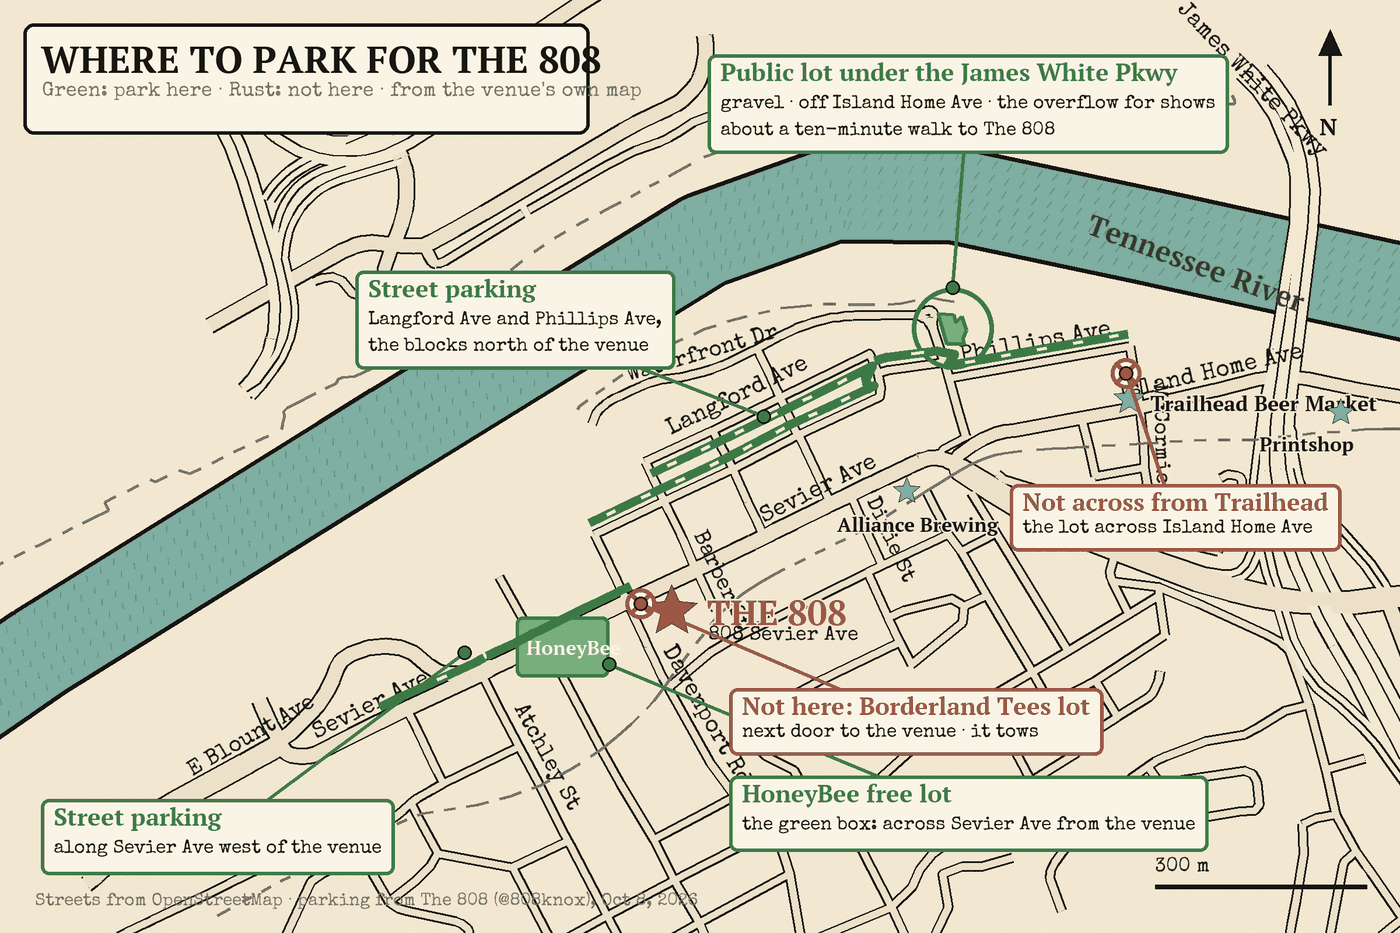
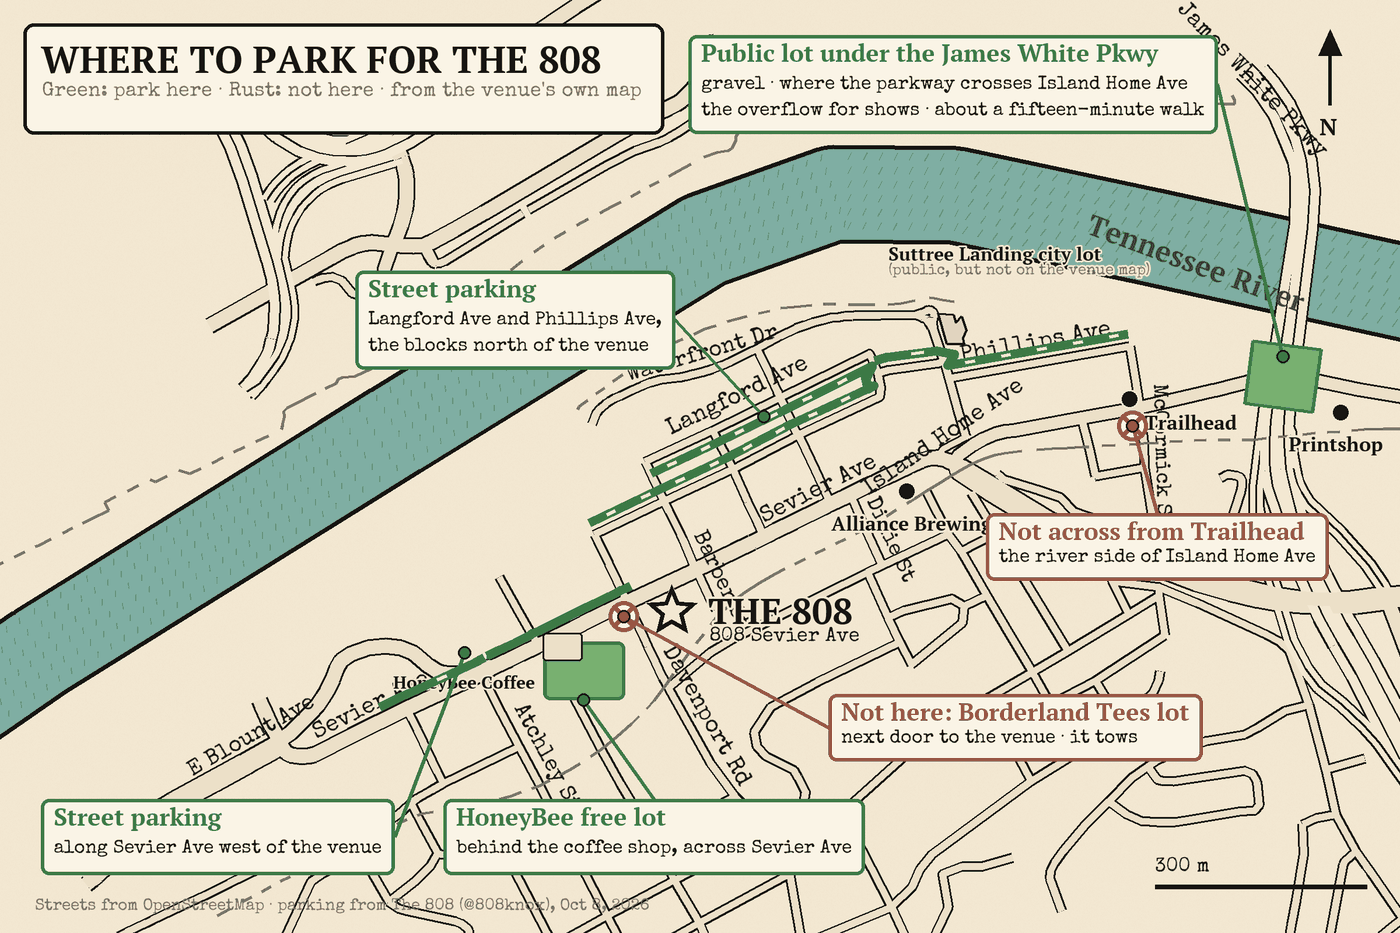
808 parking map, second revision from Andy's notes
Title plate fits; the lot by the river is labeled as Suttree Landing's city lot
(ink, not green); the underpass lot is drawn where the parkway crosses Island
Home past Trailhead; the HoneyBee lot sits behind the coffee shop; 'not across
from Trailhead' moves to the river side; the venue star is ink, not rust; no
leader crosses another. Story text follows.

diff --git a/scripts/parking-map-808.py b/scripts/parking-map-808.py
@@ -2,204 +2,196 @@
 # OpenStreetMap extract (api.openstreetmap.org/api/0.6/map?bbox=-83.9135,35.9535,-83.8935,35.9640)
 # saved as map.osm beside it, with the venue's own green/rust parking annotations. Output:
 # park_map_full.png (2400x1600) -> public/assets/diagrams/the-808-parking.png at 1400 wide.
-import math, random, xml.etree.ElementTree as ET
-from PIL import Image, ImageDraw, ImageFont, ImageFilter
+import math, xml.etree.ElementTree as ET
+from PIL import Image, ImageDraw, ImageFont
 FONTS='/Users/andyroberts/Projects/sokno_ear_web/scripts/fonts/'
 SE=lambda s: ImageFont.truetype(FONTS+'SpecialElite-Regular.ttf', s)
 PT=lambda s: ImageFont.truetype(FONTS+'PTSerif-Bold.ttf', s)
-INK=(23,21,18); CREAM=(243,232,210); TEAL=(127,174,163); RUST=(169,74,52); GREEN=(61,122,70); GREEN_FILL=(120,176,112); FADED=(120,112,100)
+INK=(23,21,18); CREAM=(243,232,210); PLATE=(250,244,230); TEAL=(127,174,163); RUST=(169,74,52)
+GREEN=(61,122,70); GREEN_FILL=(120,176,112); FADED=(120,112,100); ROAD=(236,224,200)
 W,H=2400,1600
 LON0,LON1=-83.9178,-83.8958; LAT1=35.9656
 k=W/(LON1-LON0); cosl=math.cos(math.radians(35.959))
-def P(lat,lon): return ((lon-LON0)*k, (LAT1-lat)*k*(1/cosl)*cosl*1.0/cosl*cosl) 
-# simpler equirect with aspect correction:
 def P(lat,lon): return ((lon-LON0)*k, (LAT1-lat)*k/cosl)
+px_per_m = k/(111320*cosl)
 r=ET.parse('map.osm').getroot()
 nodes={n.get('id'):(float(n.get('lat')),float(n.get('lon'))) for n in r.findall('node')}
 def tags(e): return {t.get('k'):t.get('v') for t in e.findall('tag')}
 ways=[(tags(w),[nodes[nd.get('ref')] for nd in w.findall('nd') if nd.get('ref') in nodes], w.get('id')) for w in r.findall('way')]
+poly=lambda pts:[P(a,b) for a,b in pts]
 
-img=Image.new('RGB',(W,H),CREAM); d=ImageDraw.Draw(img)
-# paper grain
-noise=Image.effect_noise((W,H),18).convert('L')
-grain=Image.new('RGB',(W,H),(232,220,196)); img=Image.composite(img,grain,noise.point(lambda v: 255 if v>118 else 200)); d=ImageDraw.Draw(img)
+img=Image.new('RGB',(W,H),CREAM)
+noise=Image.effect_noise((W,H),18).convert('L'); grain=Image.new('RGB',(W,H),(232,220,196))
+img=Image.composite(img,grain,noise.point(lambda v: 255 if v>118 else 200)); d=ImageDraw.Draw(img)
 
-def poly(pts): return [P(a,b) for a,b in pts]
-# river: thick band + hatched edges
+# ---------- base map ----------
 for t,pts,_ in ways:
     if t.get('waterway')=='river' and t.get('name')=='Tennessee River':
-        pp=poly(pts)
-        d.line(pp,fill=INK,width=170,joint='curve'); d.line(pp,fill=TEAL,width=156,joint='curve')
-        # hatch lines inside the band for engraving feel
+        pp=poly(pts); d.line(pp,fill=INK,width=170,joint='curve'); d.line(pp,fill=TEAL,width=156,joint='curve')
         for i in range(len(pp)-1):
             (x1,y1),(x2,y2)=pp[i],pp[i+1]
             if not(-300<x1<W+300 and -300<y1<H+300): continue
             L=math.hypot(x2-x1,y2-y1); n=int(L/26)
             for j in range(n):
-                tt=j/max(n,1); x=x1+(x2-x1)*tt; y=y1+(y2-y1)*tt
-                nx,ny=-(y2-y1)/L,(x2-x1)/L
-                for off in (-60,-36,-12,12,36,60):
-                    d.line([(x+nx*off,y+ny*off),(x+nx*(off+12)+6,y+ny*(off+12))],fill=(96,140,130),width=2)
-# roads
+                tt=j/max(n,1); x=x1+(x2-x1)*tt; y=y1+(y2-y1)*tt; nx,ny=-(y2-y1)/L,(x2-x1)/L
+                for off in (-60,-36,-12,12,36,60): d.line([(x+nx*off,y+ny*off),(x+nx*(off+12)+6,y+ny*(off+12))],fill=(96,140,130),width=2)
 W_BY={'motorway':34,'motorway_link':22,'primary':26,'secondary':24,'tertiary':20,'residential':12,'unclassified':10}
 for t,pts,_ in ways:
-    h=t.get('highway')
-    if h in W_BY:
-        pp=poly(pts); w=W_BY[h]
-        d.line(pp,fill=INK,width=w+6,joint='curve')
+    if t.get('highway') in W_BY: d.line(poly(pts),fill=INK,width=W_BY[t['highway']]+6,joint='curve')
 for t,pts,_ in ways:
     h=t.get('highway')
     if h in W_BY:
-        pp=poly(pts); w=W_BY[h]
-        d.line(pp,fill=CREAM if h in('motorway','motorway_link') else (236,224,200),width=w,joint='curve')
-        if h in ('motorway','motorway_link'):
-            d.line(pp,fill=INK,width=3,joint='curve')
+        pp=poly(pts); d.line(pp,fill=CREAM if h.startswith('motorway') else ROAD,width=W_BY[h],joint='curve')
+        if h.startswith('motorway'): d.line(pp,fill=INK,width=3,joint='curve')
 for t,pts,_ in ways:
     if t.get('name') in ('SoKno Rail Trail','Suttree Landing River Walk Greenway','Neyland Greenway'):
         pp=poly(pts)
         for i in range(len(pp)-1):
             (x1,y1),(x2,y2)=pp[i],pp[i+1]; L=math.hypot(x2-x1,y2-y1); n=max(int(L/18),1)
             for j in range(0,n,2):
-                a=j/n; b=min((j+1)/n,1)
-                d.line([(x1+(x2-x1)*a,y1+(y2-y1)*a),(x1+(x2-x1)*b,y1+(y2-y1)*b)],fill=FADED,width=5)
+                a=j/n; b=min((j+1)/n,1); d.line([(x1+(x2-x1)*a,y1+(y2-y1)*a),(x1+(x2-x1)*b,y1+(y2-y1)*b)],fill=FADED,width=5)
 
-def text_along(text, p1, p2, font, fill=INK, offset=0):
-    (x1,y1),(x2,y2)=p1,p2
-    ang=math.degrees(math.atan2(-(y2-y1),x2-x1))
+def text_along(text,p1,p2,font,fill=INK,offset=0):
+    (x1,y1),(x2,y2)=p1,p2; ang=math.degrees(math.atan2(-(y2-y1),x2-x1))
     if ang>90: ang-=180
     if ang<-90: ang+=180
     bb=d.textbbox((0,0),text,font=font); tw,th=bb[2]-bb[0],bb[3]-bb[1]
     tmp=Image.new('RGBA',(tw+40,th+40),(0,0,0,0)); ImageDraw.Draw(tmp).text((20-bb[0],20-bb[1]),text,font=font,fill=fill)
-    rot=tmp.rotate(ang,expand=True,resample=Image.BICUBIC)
-    cx,cy=(x1+x2)/2,(y1+y2)/2
+    rot=tmp.rotate(ang,expand=True,resample=Image.BICUBIC); cx,cy=(x1+x2)/2,(y1+y2)/2
     nx,ny=-(y2-y1),(x2-x1); L=math.hypot(nx,ny) or 1; nx,ny=nx/L,ny/L
     if ny>0: nx,ny=-nx,-ny
-    cx+=nx*offset; cy+=ny*offset
-    img.paste(rot,(int(cx-rot.width/2),int(cy-rot.height/2)),rot)
-
-def seg_of(name, lat, lon, wid=None):
+    img.paste(rot,(int(cx+nx*offset-rot.width/2),int(cy+ny*offset-rot.height/2)),rot)
+def seg_of(name,lat,lon):
     best=None
     for t,pts,i in ways:
         if t.get('name')!=name or 'highway' not in t: continue
-        if wid and i!=wid: continue
         for a in range(len(pts)-1):
-            m=((pts[a][0]+pts[a+1][0])/2,(pts[a][1]+pts[a+1][1])/2)
-            dd=(m[0]-lat)**2+((m[1]-lon)*cosl)**2
+            m=((pts[a][0]+pts[a+1][0])/2,(pts[a][1]+pts[a+1][1])/2); dd=(m[0]-lat)**2+((m[1]-lon)*cosl)**2
             if best is None or dd<best[0]: best=(dd,P(*pts[a]),P(*pts[a+1]))
     return best[1],best[2]
-labels=[('Sevier Ave',35.9565,-83.9120,'Sevier Avenue Southeast',40),('Sevier Ave',35.9590,-83.9048,'Sevier Avenue Southeast',40),
- ('Island Home Ave',35.9605,-83.8985,'Island Home Avenue',40),('James White Pkwy',35.9627,-83.9035,'James White Parkway',40),
+for text,lat,lon,name,sz in [('Sevier Ave',35.9565,-83.9120,'Sevier Avenue Southeast',40),('Sevier Ave',35.9590,-83.9048,'Sevier Avenue Southeast',40),
+ ('Island Home Ave',35.96035,-83.9032,'Island Home Avenue',40),('James White Pkwy',35.9627,-83.9035,'James White Parkway',40),
  ('Langford Ave',35.9603,-83.9058,'Langford Avenue Southeast',40),('Phillips Ave',35.9611,-83.9020,'Phillips Avenue Southeast',40),
  ('Davenport Rd',35.9565,-83.9065,'Davenport Road',40),('Barber St',35.9580,-83.9070,'Barber Street',38),('E Blount Ave',35.9575,-83.9120,'East Blount Avenue',38),
- ('Waterfront Dr',35.9612,-83.9068,'Waterfront Drive',38),('Atchley St',35.9560,-83.9095,'Atchley Street',38),('McCormick St',35.9598,-83.9028,'McCormick Street',36),('Dixie St',35.9585,-83.9043,'Dixie Street Southeast',36)]
-for text,lat,lon,name,sz in labels:
-    try:
-        a,b=seg_of(name,lat,lon)
-    except Exception as e:
-        print('no seg',name); continue
-    # extend the segment direction using neighbours for a stable angle
-    text_along(text,a,b,SE(sz),fill=INK,offset=0 if name in('James White Parkway',) else 34)
-# river label
+ ('Waterfront Dr',35.9612,-83.9068,'Waterfront Drive',38),('Atchley St',35.9560,-83.9095,'Atchley Street',38),('McCormick St',35.9598,-83.9028,'McCormick Street',36),('Dixie St',35.9585,-83.9043,'Dixie Street Southeast',36)]:
+    a,b=seg_of(name,lat,lon); text_along(text,a,b,SE(sz),offset=0 if name=='James White Parkway' else 34)
 text_along('Tennessee River',P(35.9627,-83.9005),P(35.9618,-83.8975),PT(50),fill=(40,70,64))
 
-# ---- annotations ----
-def star(c,rad,fill):
-    x,y=c; pts=[]
-    for i in range(10):
-        a=-math.pi/2+i*math.pi/5; rr=rad if i%2==0 else rad*0.45
-        pts.append((x+rr*math.cos(a),y+rr*math.sin(a)))
-    d.polygon(pts,fill=fill,outline=INK)
-def green_poly(pts, label=None, lpos=None, font=PT(40)):
-    pp=poly(pts); d.polygon(pp,fill=GREEN_FILL,outline=INK)
-    # hatch
-    xs=[p[0] for p in pp]; ys=[p[1] for p in pp]
-    d.polygon(pp,fill=GREEN_FILL,outline=GREEN)
-    d.line(pp+[pp[0]],fill=GREEN,width=6)
-def green_stroke(name, lat_a, lon_a, lat_b, lon_b, side=1):
-    # thick green dashed stroke along the named way between two points, projected onto the line
-    def proj(pts, target):
+# ---------- helpers ----------
+def star(c,rad,fill,outline=INK):
+    x,y=c; pts=[(x+(rad if i%2==0 else rad*0.45)*math.cos(-math.pi/2+i*math.pi/5), y+(rad if i%2==0 else rad*0.45)*math.sin(-math.pi/2+i*math.pi/5)) for i in range(10)]
+    d.polygon(pts,fill=fill,outline=outline)
+def box(tx,ty,lines,color,font_title=PT(42),font_body=SE(32)):
+    bb=[d.textbbox((0,0),l,font=(font_title if i==0 else font_body)) for i,l in enumerate(lines)]
+    tw=max(b[2]-b[0] for b in bb)+44; th=sum(b[3]-b[1]+14 for b in bb)+30
+    d.rounded_rectangle([tx,ty,tx+tw,ty+th],radius=14,fill=PLATE,outline=color,width=6)
+    cy=ty+14
+    for i,l in enumerate(lines):
+        f=font_title if i==0 else font_body; b=d.textbbox((0,0),l,font=f)
+        d.text((tx+22-b[0],cy-b[1]),l,font=f,fill=(color if i==0 else INK)); cy+=b[3]-b[1]+14
+    return (tx,ty,tx+tw,ty+th)
+def leader(p,rect,color):
+    # line from the point to the nearest edge-midpoint of the box, drawn under the box
+    x,y=p; x0,y0,x1,y1=rect
+    cands=[((x0+x1)/2,y0),((x0+x1)/2,y1),(x0,(y0+y1)/2),(x1,(y0+y1)/2)]
+    q=min(cands,key=lambda c:(c[0]-x)**2+(c[1]-y)**2)
+    d.line([p,q],fill=color,width=6); d.ellipse([x-11,y-11,x+11,y+11],fill=color,outline=INK,width=3)
+def callout(p,lines,tx,ty,color):
+    rect=box(tx,ty,lines,color); leader(p,rect,color); box(tx,ty,lines,color)  # box twice so it sits over the leader
+def nomark(p):
+    x,y=p; d.ellipse([x-26,y-26,x+26,y+26],fill=PLATE,outline=RUST,width=7)
+    d.line([(x-15,y-15),(x+15,y+15)],fill=RUST,width=8); d.line([(x-15,y+15),(x+15,y-15)],fill=RUST,width=8)
+def green_stroke(name,lat_a,lon_a,lat_b,lon_b,side=1):
+    def proj(pts,target):
         best=None
         for q in range(len(pts)-1):
-            (ax,ay),(bx,by)=P(*pts[q]),P(*pts[q+1]); tx,ty=P(*target)
-            dx,dy=bx-ax,by-ay; L2=dx*dx+dy*dy or 1
-            t=max(0,min(1,((tx-ax)*dx+(ty-ay)*dy)/L2)); px,py=ax+dx*t,ay+dy*t
-            dd=(px-tx)**2+(py-ty)**2
+            (ax,ay),(bx,by)=P(*pts[q]),P(*pts[q+1]); tx,ty=P(*target); dx,dy=bx-ax,by-ay; L2=dx*dx+dy*dy or 1
+            t=max(0,min(1,((tx-ax)*dx+(ty-ay)*dy)/L2)); px,py=ax+dx*t,ay+dy*t; dd=(px-tx)**2+(py-ty)**2
             if best is None or dd<best[0]: best=(dd,q,t,(px,py))
         return best
     cands=[]
     for t,pts,i in ways:
         if t.get('name')!=name or 'highway' not in t or len(pts)<2: continue
-        a=proj(pts,(lat_a,lon_a)); b=proj(pts,(lat_b,lon_b))
-        cands.append((a[0]+b[0],pts,a,b))
-    if not cands: return None
-    _,pts,a,b=min(cands,key=lambda c:c[0])
-    (qa,ta,pa),(qb,tb,pb)=a[1:],b[1:]
+        a=proj(pts,(lat_a,lon_a)); b=proj(pts,(lat_b,lon_b)); cands.append((a[0]+b[0],pts,a,b))
+    _,pts,a,b=min(cands,key=lambda c:c[0]); (qa,ta,pa),(qb,tb,pb)=a[1:],b[1:]
     if (qa,ta)>(qb,tb): (qa,ta,pa),(qb,tb,pb)=(qb,tb,pb),(qa,ta,pa)
-    pp=[pa]+[P(*pts[q]) for q in range(qa+1,qb+1)]+[pb]
-    out=[]
+    pp=[pa]+[P(*pts[q]) for q in range(qa+1,qb+1)]+[pb]; out=[]
     for q in range(len(pp)):
-        (x1,y1)=pp[max(q-1,0)]; (x2,y2)=pp[min(q+1,len(pp)-1)]
-        nx,ny=-(y2-y1),(x2-x1); L=math.hypot(nx,ny) or 1
+        (x1,y1)=pp[max(q-1,0)]; (x2,y2)=pp[min(q+1,len(pp)-1)]; nx,ny=-(y2-y1),(x2-x1); L=math.hypot(nx,ny) or 1
         out.append((pp[q][0]+side*22*nx/L,pp[q][1]+side*22*ny/L))
     d.line(out,fill=GREEN,width=16,joint='curve')
     for q in range(len(out)-1):
         (x1,y1),(x2,y2)=out[q],out[q+1]; L=math.hypot(x2-x1,y2-y1); n=max(int(L/30),1)
         for j in range(1,n,2):
-            aa=j/n; bb=min((j+0.5)/n,1)
-            d.line([(x1+(x2-x1)*aa,y1+(y2-y1)*aa),(x1+(x2-x1)*bb,y1+(y2-y1)*bb)],fill=CREAM,width=6)
+            aa=j/n; bb=min((j+0.5)/n,1); d.line([(x1+(x2-x1)*aa,y1+(y2-y1)*aa),(x1+(x2-x1)*bb,y1+(y2-y1)*bb)],fill=CREAM,width=6)
     return out
-def callout(x,y,lines,anchor,font_title=PT(42),font_body=SE(32),color=GREEN,tx=None,ty=None):
-    # box with pointer
-    bb=[d.textbbox((0,0),l,font=(font_title if i==0 else font_body)) for i,l in enumerate(lines)]
-    tw=max(b[2]-b[0] for b in bb)+44; th=sum(b[3]-b[1]+14 for b in bb)+30
-    bx,by=(tx if tx is not None else x+anchor[0]),(ty if ty is not None else y+anchor[1])
-    d.line([(x,y),(bx+tw/2,by+th/2)],fill=color,width=6)
-    d.rounded_rectangle([bx,by,bx+tw,by+th],radius=14,fill=(250,244,230),outline=color,width=6)
-    cy=by+14
-    for i,l in enumerate(lines):
-        f=font_title if i==0 else font_body; b=d.textbbox((0,0),l,font=f)
-        d.text((bx+22-b[0],cy-b[1]),l,font=f,fill=(color if i==0 else INK)); cy+=b[3]-b[1]+14
-    d.ellipse([x-12,y-12,x+12,y+12],fill=color,outline=INK,width=3)
 
-# green: underpass lot (OSM outline)
+# ---------- where the parkway crosses Island Home Ave ----------
+def segs(name,kinds):
+    out=[]
+    for t,pts,_ in ways:
+        if t.get('name')==name and t.get('highway') in kinds:
+            pp=poly(pts); out+= [(pp[i],pp[i+1]) for i in range(len(pp)-1)]
+    return out
+def intersect(s1,s2):
+    (x1,y1),(x2,y2)=s1; (x3,y3),(x4,y4)=s2; den=(x1-x2)*(y3-y4)-(y1-y2)*(x3-x4)
+    if abs(den)<1e-9: return None
+    t=((x1-x3)*(y3-y4)-(y1-y3)*(x3-x4))/den; u=-((x1-x2)*(y1-y3)-(y1-y2)*(x1-x3))/den
+    return (x1+t*(x2-x1),y1+t*(y2-y1),s1) if 0<=t<=1 and 0<=u<=1 else None
+hits=[]
+for a in segs('James White Parkway',('motorway',)):
+    for b in segs('Island Home Avenue',('tertiary','residential','secondary')):
+        h=intersect(a,b)
+        if h: hits.append(h)
+cx=sum(h[0] for h in hits)/len(hits); cy=sum(h[1] for h in hits)/len(hits)
+(ax,ay),(bx,by)=hits[0][2]; ang=math.atan2(by-ay,bx-ax); ux,uy=math.cos(ang),math.sin(ang); vx,vy=-uy,ux
+Lh,Wh=px_per_m*45,px_per_m*48   # a lot ~90 m along the bridge, ~95 m wide, straddling the road
+lot=[(cx+ux*Lh+vx*Wh,cy+uy*Lh+vy*Wh),(cx-ux*Lh+vx*Wh,cy-uy*Lh+vy*Wh),(cx-ux*Lh-vx*Wh,cy-uy*Lh-vy*Wh),(cx+ux*Lh-vx*Wh,cy+uy*Lh-vy*Wh)]
+d.polygon(lot,fill=GREEN_FILL,outline=GREEN); d.line(lot+[lot[0]],fill=GREEN,width=6)
+print('underpass lot at px',round(cx),round(cy),'hits',len(hits))
+
+# ---------- the other lots ----------
+# Suttree Landing's city lot (OSM outline): public, but not on the venue's map, so ink not green
 for t,pts,i in ways:
-    if i=='686757700': green_poly(pts); lot_c=P(35.96142,-83.90283)
-d.ellipse([lot_c[0]-70,lot_c[1]-70,lot_c[0]+70,lot_c[1]+70],outline=GREEN,width=8)
-callout(lot_c[0],lot_c[1]-70,['Public lot under the James White Pkwy','gravel · off Island Home Ave · the overflow for shows','about a ten-minute walk to The 808'],(0,0),tx=lot_c[0]-420,ty=lot_c[1]-470)
-# green: HoneyBee free lot — around the Honeybee building
-hb=P(35.95737,-83.90896)
-d.rounded_rectangle([hb[0]-80,hb[1]-52,hb[0]+80,hb[1]+52],radius=12,fill=GREEN_FILL,outline=GREEN,width=6)
-d.text((hb[0]-62,hb[1]-22),'HoneyBee',font=PT(34),fill=(250,244,230))
-callout(hb[0]+80,hb[1]+30,['HoneyBee free lot','the green box: across Sevier Ave from the venue'],(0,0),tx=1250,ty=1330)
-# green: street parking strokes
-s1=green_stroke('Sevier Avenue Southeast',35.9571,-83.9101,35.9580,-83.9078,side=-1); s1b=green_stroke('Sevier Avenue Southeast',35.95655,-83.9118,35.95711,-83.91007,side=-1)
-s2=green_stroke('Langford Avenue Southeast',35.9597,-83.90765,35.96086,-83.904,side=1)
-s3=green_stroke('Phillips Avenue Southeast',35.9588,-83.90845,35.96086,-83.904,side=-1)
-s4=green_stroke('Phillips Avenue Southeast',35.96086,-83.904,35.96119,-83.90004,side=-1)
-lp=P(35.9603,-83.9058); callout(lp[0],lp[1],['Street parking','Langford Ave and Phillips Ave,','the blocks north of the venue'],(0,0),tx=lp[0]-700,ty=lp[1]-250)
-sp=P(35.95700,-83.9105); callout(sp[0],sp[1]-40,['Street parking','along Sevier Ave west of the venue'],(0,0),tx=70,ty=1370)
-# venue
-v=P(35.95782,-83.90724); star(v,46,RUST)
-d.text((v[0]+60,v[1]-40),'THE 808',font=PT(60),fill=RUST,stroke_width=3,stroke_fill=CREAM)
-d.text((v[0]+62,v[1]+24),'808 Sevier Ave',font=SE(34),fill=INK)
-# rust: Borderland lot next door (802 Sevier), and across from Trailhead
-def nomark(x,y,lines,anchor):
-    d.ellipse([x-26,y-26,x+26,y+26],fill=(250,244,230),outline=RUST,width=7)
-    d.line([(x-15,y-15),(x+15,y+15)],fill=RUST,width=8); d.line([(x-15,y+15),(x+15,y-15)],fill=RUST,width=8)
-    callout(x,y,lines,anchor,color=RUST,tx=(x-200 if 'Trailhead' in lines[0] else 1250),ty=(y+190 if 'Trailhead' in lines[0] else 1180))
-b=P(35.95792,-83.90773); nomark(b[0],b[1],['Not here: Borderland Tees lot','next door to the venue · it tows'],(0,0))
-th=P(35.96052,-83.90005); star(th,28,TEAL); d.text((th[0]+36,th[1]-18),'Trailhead Beer Market',font=PT(36),fill=INK,stroke_width=3,stroke_fill=CREAM)
-nm=P(35.96085,-83.90010); nomark(nm[0],nm[1],['Not across from Trailhead','the lot across Island Home Ave'],(0,0),)
-pr=P(35.96035,-83.89673); star(pr,24,TEAL); d.text((pr[0]-140,pr[1]+30),'Printshop',font=PT(34),fill=INK,stroke_width=3,stroke_fill=CREAM)
-al=P(35.95935,-83.90355); star(al,24,TEAL); d.text((al[0]-120,al[1]+34),'Alliance Brewing',font=PT(34),fill=INK,stroke_width=3,stroke_fill=CREAM)
-# title plate
-d.rounded_rectangle([40,40,1010,230],radius=18,fill=(250,244,230),outline=INK,width=6)
-d.text((70,58),'WHERE TO PARK FOR THE 808',font=PT(64),fill=INK)
-d.text((72,140),'Green: park here · Rust: not here · from the venue\'s own map',font=SE(34),fill=FADED)
-# north arrow + scale
+    if i=='686757700':
+        pp=poly(pts); d.polygon(pp,fill=(226,214,190),outline=INK); d.line(pp+[pp[0]],fill=INK,width=4); sc=P(35.96142,-83.90283)
+d.text((sc[0]-110,sc[1]-150),'Suttree Landing city lot',font=PT(32),fill=INK,stroke_width=3,stroke_fill=CREAM); d.text((sc[0]-110,sc[1]-112),'(public, but not on the venue map)',font=SE(26),fill=FADED,stroke_width=3,stroke_fill=CREAM)
+# HoneyBee's lot: behind the building, the side away from Sevier Ave (Andy, 2026-10-13)
+hbb=P(35.95737,-83.90896)                      # the coffee shop
+hb=(hbb[0]+px_per_m*30, hbb[1]+px_per_m*34)     # ~45 m behind it
+d.rounded_rectangle([hb[0]-70,hb[1]-50,hb[0]+70,hb[1]+50],radius=12,fill=GREEN_FILL,outline=GREEN,width=6)
+d.rounded_rectangle([hbb[0]-34,hbb[1]-24,hbb[0]+34,hbb[1]+24],radius=6,fill=ROAD,outline=INK,width=3)
+d.text((hbb[0]-290,hbb[1]+40),'HoneyBee Coffee',font=PT(30),fill=INK,stroke_width=3,stroke_fill=CREAM)
+# street parking
+green_stroke('Sevier Avenue Southeast',35.9571,-83.9101,35.9580,-83.9078,side=-1); green_stroke('Sevier Avenue Southeast',35.95655,-83.9118,35.95711,-83.91007,side=-1)
+green_stroke('Langford Avenue Southeast',35.9597,-83.90765,35.96086,-83.904,side=1)
+green_stroke('Phillips Avenue Southeast',35.9588,-83.90845,35.96086,-83.904,side=-1); green_stroke('Phillips Avenue Southeast',35.96086,-83.904,35.96119,-83.90004,side=-1)
+
+# ---------- venues ----------
+v=P(35.95782,-83.90724); star(v,48,INK,outline=CREAM); star(v,30,CREAM,outline=INK)
+d.text((v[0]+62,v[1]-44),'THE 808',font=PT(62),fill=INK,stroke_width=4,stroke_fill=CREAM); d.text((v[0]+64,v[1]+26),'808 Sevier Ave',font=SE(34),fill=INK,stroke_width=3,stroke_fill=CREAM)
+for name,lat,lon,dx,dy in [('Trailhead',35.96052,-83.90005,26,16),('Printshop',35.96035,-83.89673,-90,30),('Alliance Brewing',35.95935,-83.90355,-130,32)]:
+    p=P(lat,lon); d.ellipse([p[0]-16,p[1]-16,p[0]+16,p[1]+16],fill=INK,outline=CREAM,width=3)
+    d.text((p[0]+dx,p[1]+dy),name,font=PT(34),fill=INK,stroke_width=4,stroke_fill=CREAM)
+
+# ---------- no-park marks ----------
+bl=P(35.95775,-83.90800); nomark(bl)                    # the Borderland Tees lot, next door
+tr=P(35.96052,-83.90005); nx=P(35.96018,-83.90000); nomark(nx)   # across Island Home Ave from Trailhead, the river side
+
+# ---------- callouts: each leader runs clear of the others ----------
+callout((cx,cy-Wh*0.6),['Public lot under the James White Pkwy','gravel · where the parkway crosses Island Home Ave','the overflow for shows · about a fifteen-minute walk'],tx=1180,ty=60,color=GREEN)
+callout(nx,['Not across from Trailhead','the river side of Island Home Ave'],tx=1690,ty=880,color=RUST)
+lp=P(35.9603,-83.9058); callout(lp,['Street parking','Langford Ave and Phillips Ave,','the blocks north of the venue'],tx=lp[0]-700,ty=lp[1]-250,color=GREEN)
+sp=P(35.95700,-83.9105); callout((sp[0],sp[1]-40),['Street parking','along Sevier Ave west of the venue'],tx=70,ty=1370,color=GREEN)
+callout(bl,['Not here: Borderland Tees lot','next door to the venue · it tows'],tx=1420,ty=1190,color=RUST)
+callout((hb[0],hb[1]+50),['HoneyBee free lot','behind the coffee shop, across Sevier Ave'],tx=760,ty=1370,color=GREEN)
+
+# ---------- plate, arrow, scale ----------
+t1='WHERE TO PARK FOR THE 808'; t2="Green: park here · Rust: not here · from the venue's own map"
+b1=d.textbbox((0,0),t1,font=PT(64)); b2=d.textbbox((0,0),t2,font=SE(34)); pw=max(b1[2],b2[2])+70
+d.rounded_rectangle([40,40,40+pw,230],radius=18,fill=PLATE,outline=INK,width=6)
+d.text((70,58),t1,font=PT(64),fill=INK); d.text((72,140),t2,font=SE(34),fill=FADED)
 d.line([(W-120,180),(W-120,70)],fill=INK,width=6); d.polygon([(W-120,50),(W-140,95),(W-100,95)],fill=INK); d.text((W-138,190),'N',font=PT(40),fill=INK)
-m200=200/ (111320*0.00001*cosl) * 0.00001 * k / cosl  # placeholder, recomputed below
-px_per_m = k/ (111320*cosl)
 d.line([(W-420,H-80),(W-420+px_per_m*300,H-80)],fill=INK,width=8); d.text((W-420,H-130),'300 m',font=SE(34),fill=INK)
-d.text((60,H-70),'Streets from OpenStreetMap · parking from The 808 (@808knox), Oct 8, 2026',font=SE(30),fill=FADED)
+d.text((60,H-60),'Streets from OpenStreetMap · parking from The 808 (@808knox), Oct 8, 2026',font=SE(28),fill=FADED)
 img.save('park_map_full.png'); img.resize((1200,800),Image.LANCZOS).save('park_map_preview.png'); print('rendered')
